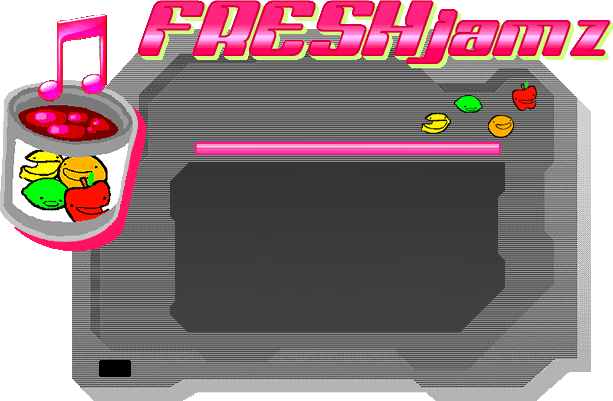
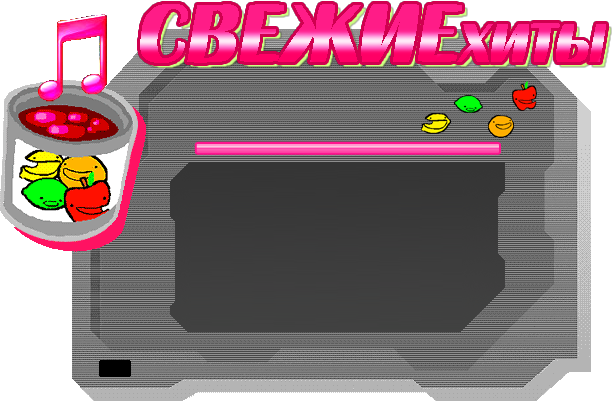
Перевод тем дальше

Changed region(s): [[0.217, 0.0, 1.0, 0.1796]]

diff --git a/README.md b/README.md
@@ -181,7 +181,7 @@ Dpeta крайне рекомендует прочитать эти руково
 - [ ] Проверка
 * FRESHjamz:
 - [X] Текст
-- [ ] Визуал
+- [X] Визуал
 - [ ] Проверка
 * gold:
 - [X] Текст
